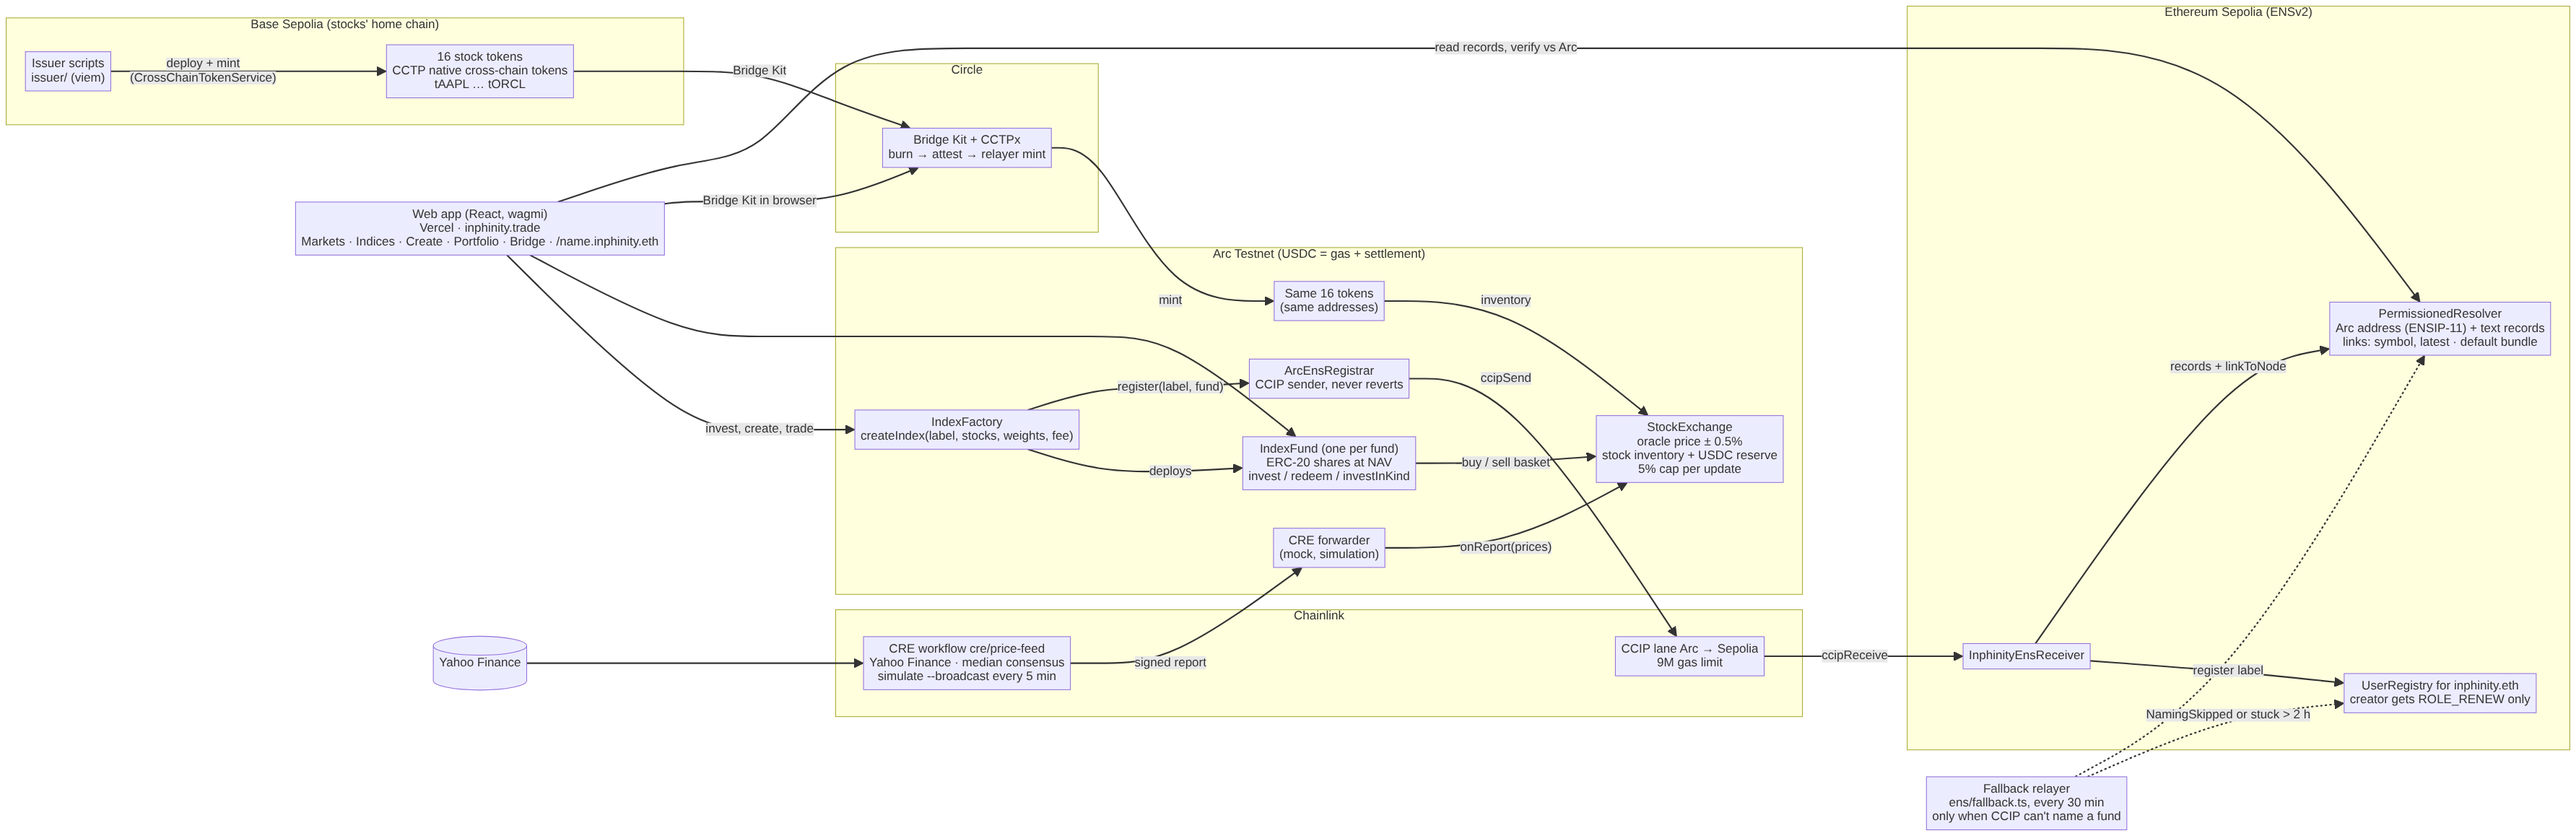
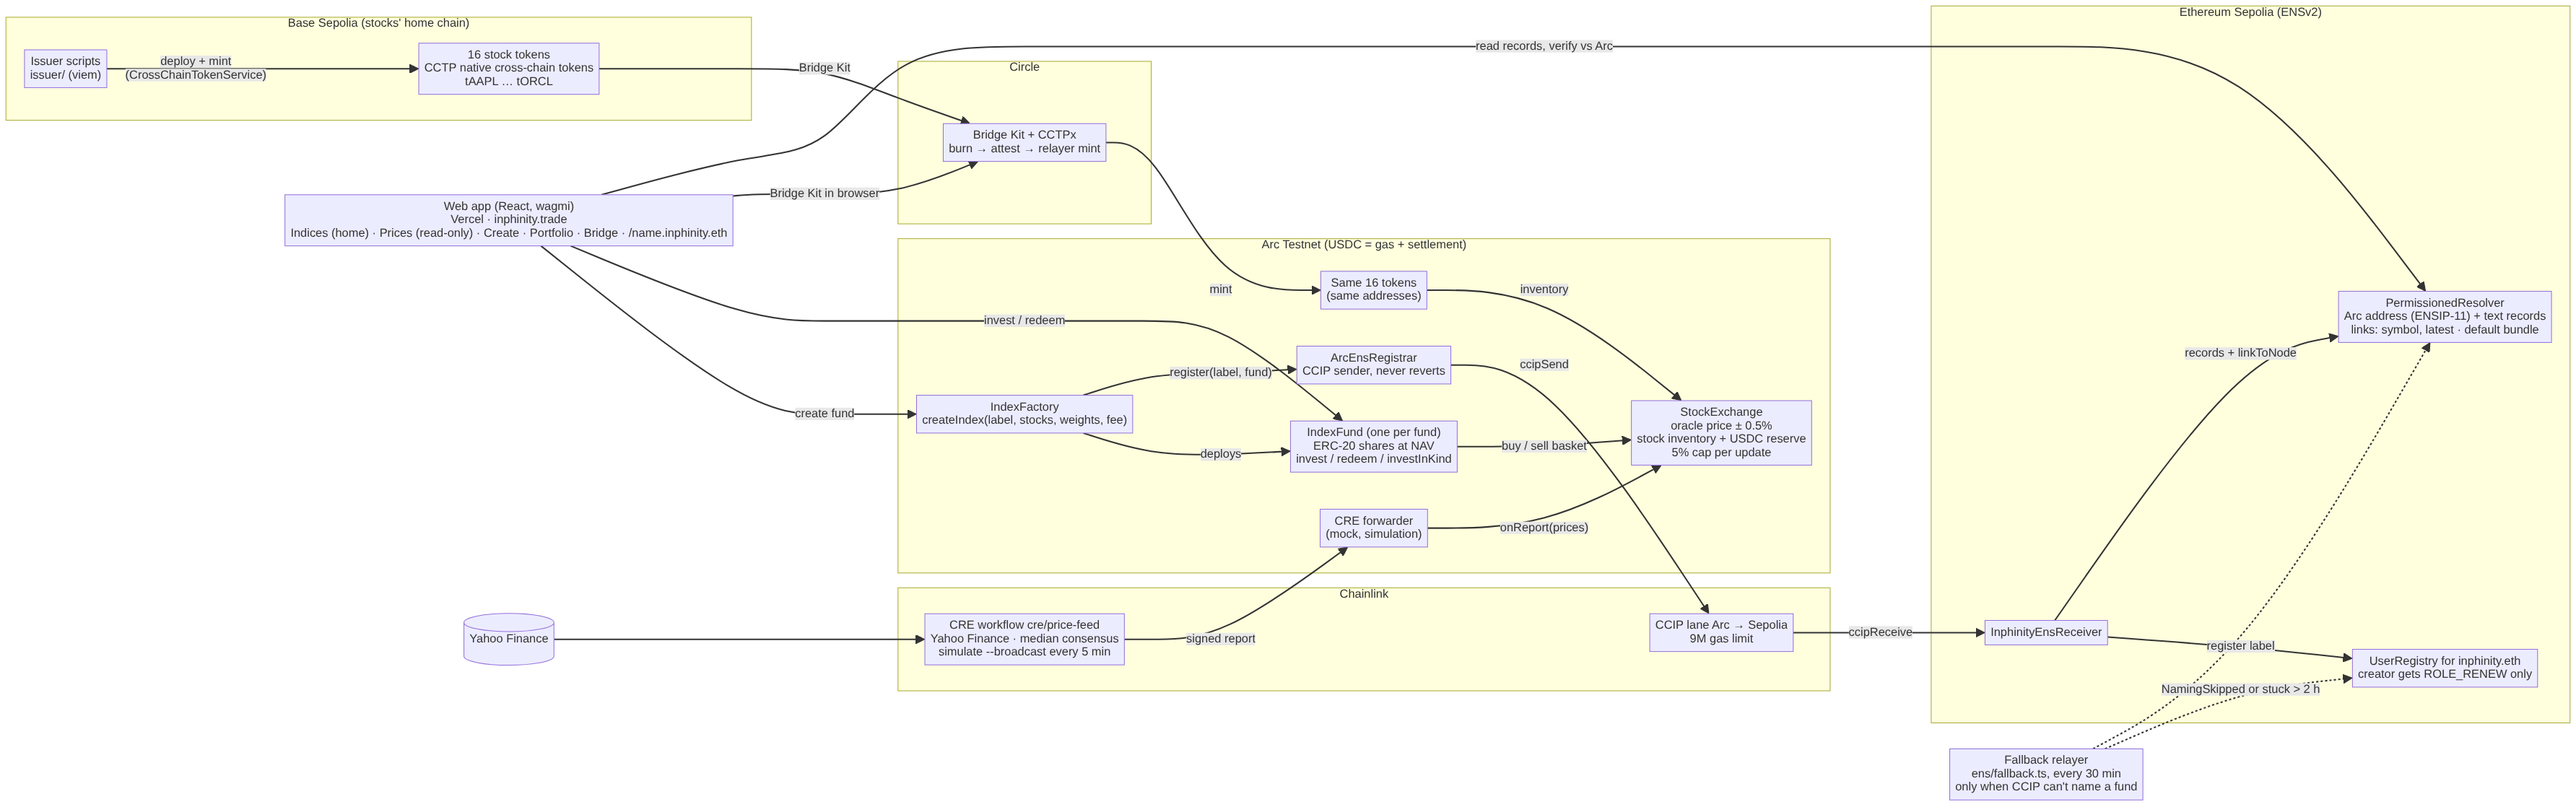
Docs: rewrite submission and video script for the index-only app
What
- SUBMISSION.md: the description now says funds trade through the exchange
  and the app is index-only, with a read-only Prices board. The [RAMIT]
  index-only toggle and gap item are removed, the image list leads with the
  Indices home and the Prices board, and the "honest limits" note on
  public buy/sell is reworded.
- VIDEO_SCRIPT.md: scene 1 opens on Indices (the new home); scene 2 is the
  read-only Prices board ending on "Build a fund with this ->"; tabs and
  backup cut updated; a note to re-check labels against the merged UI.
- ARCHITECTURE.md/.png: web app labels (Indices home, Prices read-only,
  create fund / invest-redeem edges).
- README: index-only line.

Why
- Ramit decided index-only (DECISIONS 4b, PR #25), relayed by the
  orchestrator.

How tested
- Every replacement asserted to match exactly once; no "Markets" left in
  the four files; Mermaid re-rendered without errors.
- feat/index-only was not on the remote yet, so the labels follow the
  DECISIONS 4b spec and need a check against the merged UI.

Claude-Session: https://claude.ai/code/session_01KnDLxnsExchRj2ABGGN7oN

diff --git a/docs/VIDEO_SCRIPT.md b/docs/VIDEO_SCRIPT.md
@@ -28,17 +28,18 @@ Voice-over (VO) is about 130 words per minute. Cut wherever you see ✂.
   - Start on **Arc Testnet**: the app auto-switches before transactions, but avoid the extra popup.
 - [ ] **Pre-create a backup fund** (e.g. `DEMO2`) in case CCIP is slow on camera. Delivery is usually minutes, but you can't wait on camera.
 - [ ] **Tabs open, in order:**
-  1. https://www.inphinity.trade/ (Markets)
-  2. `/create`
-  3. The backup fund's page
-  4. https://www.inphinity.trade/bchip.inphinity.eth
-  5. `/bridge`
-  6. Basescan burn tx of the tNFLX transfer
-  7. Arcscan exchange address → token transfers
-  8. ccip.chain.link message page (aibuilders: `0xac8fffdf…d53b`)
-  9. sepolia.app.ens.domains → `bchip.inphinity.eth`
-  10. **Arc Studio project**: contracts tab, chat history
-  11. `docs/ARCHITECTURE.md` rendered on GitHub (repo public)
+  1. https://www.inphinity.trade/ (Indices home)
+  2. The Prices tab
+  3. `/create`
+  4. The backup fund's page
+  5. https://www.inphinity.trade/bchip.inphinity.eth
+  6. `/bridge`
+  7. Basescan burn tx of the tNFLX transfer
+  8. Arcscan exchange address → token transfers
+  9. ccip.chain.link message page (aibuilders: `0xac8fffdf…d53b`)
+  10. sepolia.app.ens.domains → `bchip.inphinity.eth`
+  11. **Arc Studio project**: contracts tab, chat history
+  12. `docs/architecture.png` (or `ARCHITECTURE.md` on GitHub once the repo is public)
 - [ ] **Screen:** browser at 1440×900 or 1920×1080, 110% zoom, notifications off, bookmarks bar hidden.
 - [ ] **Audio:** an external mic or headset in a quiet room.
 
@@ -48,8 +49,8 @@ Voice-over (VO) is about 130 words per minute. Cut wherever you see ✂.
 
 | # | Time | Screen | Clicks | Voice-over |
 |---|---|---|---|---|
-| 1 | 0:00–0:20 | Title card ("Inphinity · index funds from any tokenized stock"), then Markets | None | "In India, most people invest through mutual funds and index funds, not by picking single stocks. Tokenized stocks are arriving onchain, but there's no fund layer: you buy and track every token yourself. Inphinity lets anyone build an index fund from tokenized stocks, on Arc, in USDC." |
-| 2 | 0:20–0:45 | Markets board (`/`) | Hover a row (tNVDA). Open the Arcscan tab: a `PricesUpdated` report tx. | "These are sixteen US stocks, priced by Chainlink CRE. A workflow fetches Yahoo Finance prices with median consensus and writes a signed report to our exchange on Arc every five minutes. Here's one landing onchain. Each update is capped at five percent; here CRE clamped AMD's jump. The exchange trades at that oracle price, against its own inventory: no AMM pool to drift." |
+| 1 | 0:00–0:20 | Title card ("Inphinity · index funds from any tokenized stock"), then the Indices home page | None | "In India, most people invest through mutual funds and index funds, not by picking single stocks. Tokenized stocks are arriving onchain, but there's no fund layer: you buy and track every token yourself. Inphinity lets anyone build an index fund from tokenized stocks, on Arc, in USDC." |
+| 2 | 0:20–0:45 | **Prices** tab (read-only board) | Hover a row (tNVDA): price, 1D, since listing, inventory, "in N funds". Open the Arcscan tab: a `PricesUpdated` report tx. Click **Build a fund with this →** on one row to lead into scene 3. | "Funds are built from sixteen US stocks, priced by Chainlink CRE. A workflow fetches Yahoo Finance prices with median consensus and writes a signed report to our exchange on Arc every five minutes. Here's one landing onchain. Each update is capped at five percent; here CRE clamped AMD's jump. There's no single-stock trading here: funds buy their stocks from our exchange at that oracle price, so fund prices track the real market." |
 | 3 | 0:45–1:15 | Create index (`/create`) | Name "Mumbai Tech", symbol MTECH → **Next: stocks →** → tap tAAPL, tNVDA, tMSFT, tNFLX (tNFLX is selectable only once the pre-started bridge has landed in exchange inventory; until then the page lists it under "Not yet available on Arc", so use tGOOGL instead) → **Split equally** → **Next: fee & review →** → fee 1% → note the line "ENS: your fund will be listed as mtech.inphinity.eth" → **Create** → confirm in MetaMask | "Creating a fund: pick two to ten stocks, set the weights and a fee. Notice the ENS name: this fund will be named on Ethereum in the same transaction. Confirm. The fund is now its own contract on Arc." ✂ (cut the wait) |
 | 4 | 1:15–1:40 | New fund's page (or the backup fund) | Enter 10 USDC → **Invest** → confirm → show NAV / share, Fund value, Holding table | "Invest ten USDC. The fund buys the basket by weight and mints shares at NAV, so I pay my own spread and existing holders aren't diluted. NAV per share started at one dollar; performance is NAV since inception, net of fees, moving with every Chainlink update." |
 | 5 | 1:40–2:10 | `/bchip.inphinity.eth`, then the CCIP explorer, then the ENS app | Scroll to **Verified against Arc** → ccip.chain.link tab (SUCCESS) → sepolia.app.ens.domains tab | "Every fund gets an ENSv2 name. Fund creation on Arc sends a Chainlink CCIP message to Sepolia. Our receiver registers the name in our own ENSv2 registry and writes the Arc address, weights and fee. The creator owns the name but, by Enhanced Access Control, can't repoint it: no phishing funds. This page reads ENS and verifies it live against the contract on Arc. Identity in ENS, value onchain." |
@@ -59,7 +60,7 @@ Voice-over (VO) is about 130 words per minute. Cut wherever you see ✂.
 
 If the main cut runs long: trim scene 2's arcscan detour and scene 7's test scroll. Don't trim scene 6 or 7; Arc requires Studio to appear on screen.
 
-**Index-only variant:** in scene 2, replace "The exchange trades at that oracle price…" with "Funds trade through our exchange at that oracle price, so the app is index funds only." The clicks stay the same.
+**Written for the index-only app** (Indices is home, Prices is read-only; PR #25). Before recording, re-check the button labels against the merged UI: the PR was not pushed when this script was written.
 
 ---
 
@@ -69,8 +70,8 @@ If the main cut runs long: trim scene 2's arcscan detour and scene 7's test scro
 
 | Time | Screen | VO (short version of above) |
 |---|---|---|
-| 0:00–0:15 | Title, then Markets | Problem: no fund layer for tokenized stocks; Inphinity builds index funds on Arc. |
-| 0:15–0:35 | Markets + Arcscan report | Chainlink CRE prices every 5 min, 5% cap. |
+| 0:00–0:15 | Title, then Indices | Problem: no fund layer for tokenized stocks; Inphinity builds index funds on Arc. |
+| 0:15–0:35 | Prices board + Arcscan report | Chainlink CRE prices every 5 min, 5% cap. |
 | 0:35–1:00 | **BCHIP** fund page (existing) | Funds: weights, fee, NAV-priced shares, since inception (+0.97% at 00:30 IST). Show the invest box without sending. |
 | 1:00–1:25 | `/bchip.inphinity.eth` + CCIP message (aibuilders) | ENSv2 names over CCIP; EAC roles; verified against Arc. |
 | 1:25–1:45 | Bridge page + the verified tAAPL burn/mint links from 6 Nov | CCTP stock tokens via Bridge Kit. |

diff --git a/docs/SUBMISSION.md b/docs/SUBMISSION.md
@@ -45,7 +45,7 @@ Copy-paste answers for every field of the ETHGlobal Mumbai project form, in form
 >
 > **What we built (all live on testnets):**
 > - **16 mock US stocks** (tAAPL, tNVDA, tNFLX…) are issued on Base Sepolia as **Circle CCTP native cross-chain tokens** and bridged to **Arc Testnet** with Circle **Bridge Kit**: same address on both chains, burn and mint, no wrapped IOU.
-> - An oracle-priced **StockExchange** on Arc holds stock inventory and a USDC reserve. It trades at the oracle price ± 0.5%, with a 5% cap per price update and a stale-price freeze.
+> - An oracle-priced **StockExchange** on Arc holds stock inventory and a USDC reserve. Funds buy and sell their stocks through it at the oracle price ± 0.5%, with a 5% cap per price update and a stale-price freeze. The app is **index-only**: users invest in funds, not single stocks. A read-only Prices board shows each stock's Chainlink price and which funds hold it.
 > - **Chainlink CRE** fetches prices from Yahoo Finance with median consensus and writes signed reports to the exchange every 5 minutes. Real market moves land onchain.
 > - **Index funds:** pick 2–10 stocks, set the weights and a fee (up to 2%/yr). Each fund is an ERC-20 whose shares are minted and burned at **NAV**. The investor pays the spread, so existing holders aren't diluted. Performance is NAV per share "since inception" (every fund starts at 1.00).
 > - **ENSv2 names:** every fund gets `<name>.inphinity.eth` on Sepolia, written from Arc in the same transaction that creates the fund, through **Chainlink CCIP**. The name resolves to the fund's Arc address and carries its weights, fee and creator. The fund profile page (e.g. `/bchip.inphinity.eth`) reads the ENS records and verifies them against the fund contract on Arc.
@@ -54,7 +54,7 @@ Copy-paste answers for every field of the ETHGlobal Mumbai project form, in form
 >
 > Tokens are mocks priced from real market data, not securities. The design takes any tokenized stock, so Indian equities (NSE prices through CRE, an Indian issuer on its home chain) are the next market.
 
-`[RAMIT]` If you ship the **index-only** version (DECISIONS.md 4b), change one sentence: "It trades at the oracle price ± 0.5%" → "Funds trade through it at the oracle price ± 0.5%; the app offers index funds only, not single-stock trading." Nothing else changes.
+Written for the **index-only** app (DECISIONS.md 4b, decided by Ramit; UI in PR #25).
 
 ### How it's made (min 280 characters)
 
@@ -120,7 +120,7 @@ Copy-paste answers for every field of the ETHGlobal Mumbai project form, in form
 > - an inventory exchange instead of an AMM;
 > - ENS as the fund registry;
 > - NAV "since inception";
-> - the index-only scope.
+> - making the app index-only.
 >
 > He also reviewed and merged every PR, approved and funded every onchain transaction, and ran the Chainlink CRE simulation on his laptop. The reasoning behind each decision is in `docs/DECISIONS.md`, and the timeline in `docs/BUILD_LOG.md`.
 >
@@ -254,13 +254,14 @@ See [`VIDEO_SCRIPT.md`](VIDEO_SCRIPT.md). Main cut ~3:00. Backup cut ~2:10: the 
 ## 5. Images (form page 2: "Upload images")
 
 `[RAMIT]` Suggested screenshots, at desktop width:
-1. Markets board with live prices.
-2. Create index review step.
-3. A fund page (NAV / share, since inception).
-4. `/bchip.inphinity.eth` profile with "Verified against Arc".
-5. Bridge from Base page.
-6. The architecture diagram (render `docs/ARCHITECTURE.md` on GitHub).
-7. The Arc Studio project.
+1. Indices home page.
+2. Prices board with live Chainlink prices.
+3. Create index review step.
+4. A fund page (NAV / share, since inception).
+5. `/bchip.inphinity.eth` profile with "Verified against Arc".
+6. Bridge from Base page.
+7. `docs/architecture.png`.
+8. The Arc Studio project.
 
 ## 6. Contract addresses
 
@@ -300,12 +301,12 @@ Live state read 7 Nov ~00:55 IST: `priceSource = 1` (Chainlink feed), last CRE r
 - **CCIP fee:** the testnet CCIP fee is ~21.7 USDC per fund. While the registrar holds less than that, new funds aren't named by CCIP; they get `NamingSkipped` and the fallback names them.
 - **Fallback relayer:** it is built and dry-run tested but not yet started (open item in BUILD_LOG). Fund **RMT** and fund **AICHIP** (`ccipdemo`) are unnamed until it runs.
 - **SIPManager:** it is deployed but has no UI.
-- **Public `buy`/`sell`:** `StockExchange.buy/sell` stay public onchain even in an index-only app.
+- **Public `buy`/`sell`:** the app is index-only, but `StockExchange.buy/sell` stay public onchain. Restricting them to registered funds needs an exchange redeploy, so it's a next step.
 
 ## 9. Gaps only Ramit can fill
 
 1. **Make the repo public** (blocker).
 2. **Arc Studio shareable project URL** (judges must be able to open it): app `7582b931-f752-4b46-a210-d0898b2062a7`.
-3. Ease ratings (suggested above), and the index-only go/no-go (one sentence in the description).
+3. Ease ratings (suggested above).
 4. Team / social handles for the showcase, if the form asks.
 5. Arc: confirm that we name only the Bridge Kit track. The DeFi / Onchain Finance track ("trading with tokenized RWAs") also fits, but Arc asks you to state which bounty.

diff --git a/docs/ARCHITECTURE.md b/docs/ARCHITECTURE.md
@@ -40,7 +40,7 @@ flowchart LR
   end
 
   FB["Fallback relayer<br/>ens/fallback.ts, every 30 min<br/>only when CCIP can't name a fund"]
-  WEB["Web app (React, wagmi)<br/>Vercel · inphinity.trade<br/>Markets · Indices · Create · Portfolio · Bridge · /name.inphinity.eth"]
+  WEB["Web app (React, wagmi)<br/>Vercel · inphinity.trade<br/>Indices (home) · Prices (read-only) · Create · Portfolio · Bridge · /name.inphinity.eth"]
   YF[("Yahoo Finance")]
 
   TOK_B -->|"Bridge Kit"| BK -->|"mint"| TOK_A
@@ -48,8 +48,8 @@ flowchart LR
   REG -->|"ccipSend"| CCIP -->|"ccipReceive"| RCV
   FB -.->|"NamingSkipped or stuck > 2 h"| UR
   FB -.-> PR
-  WEB -->|"invest, create, trade"| FAC
-  WEB --> FUND
+  WEB -->|"create fund"| FAC
+  WEB -->|"invest / redeem"| FUND
   WEB -->|"Bridge Kit in browser"| BK
   WEB -->|"read records, verify vs Arc"| PR
 ```
@@ -66,7 +66,7 @@ flowchart LR
 | ArcEnsRegistrar → CCIP → InphinityEnsReceiver | Names each fund `<label>.inphinity.eth` on Sepolia inside the fund-creation tx; never blocks fund creation | `contracts/ccip/` |
 | UserRegistry + PermissionedResolver | Our ENSv2 subname registry and resolver; Enhanced Access Control keeps creators from repointing names | `ens/`, `ens/DESIGN.md` |
 | Fallback relayer | Names a fund only when CCIP didn't (skipped for fee, or stuck > 2 h); retries stored receiver failures | `ens/src/fallback.ts` |
-| Web app | React + wagmi on Vercel; the ENS profile page joins ENS identity with live NAV from Arc and verifies them | `src/` |
+| Web app | React + wagmi on Vercel, index-only (no single-stock buy/sell in the UI); the ENS profile page joins ENS identity with live NAV from Arc and verifies them | `src/` |
 
 PNG export (for slides and the submission form): [`architecture.png`](architecture.png).
 

diff --git a/README.md b/README.md
@@ -2,7 +2,7 @@
 
 **Index funds from any tokenized stock: US today, Indian next.**
 
-Anyone can build an index fund from tokenized stocks and invest in it with USDC on Arc. Built at ETHGlobal Mumbai (5–7 Nov 2026), starting from Arc Studio.
+Anyone can build an index fund from tokenized stocks and invest in it with USDC on Arc. The app is index-only: you invest in funds, and a read-only Prices board shows the stocks they hold. Built at ETHGlobal Mumbai (5–7 Nov 2026), starting from Arc Studio.
 
 - **Live app:** https://www.inphinity.trade (also https://inphinity.vercel.app)
 - **Example fund profile:** https://www.inphinity.trade/bchip.inphinity.eth
